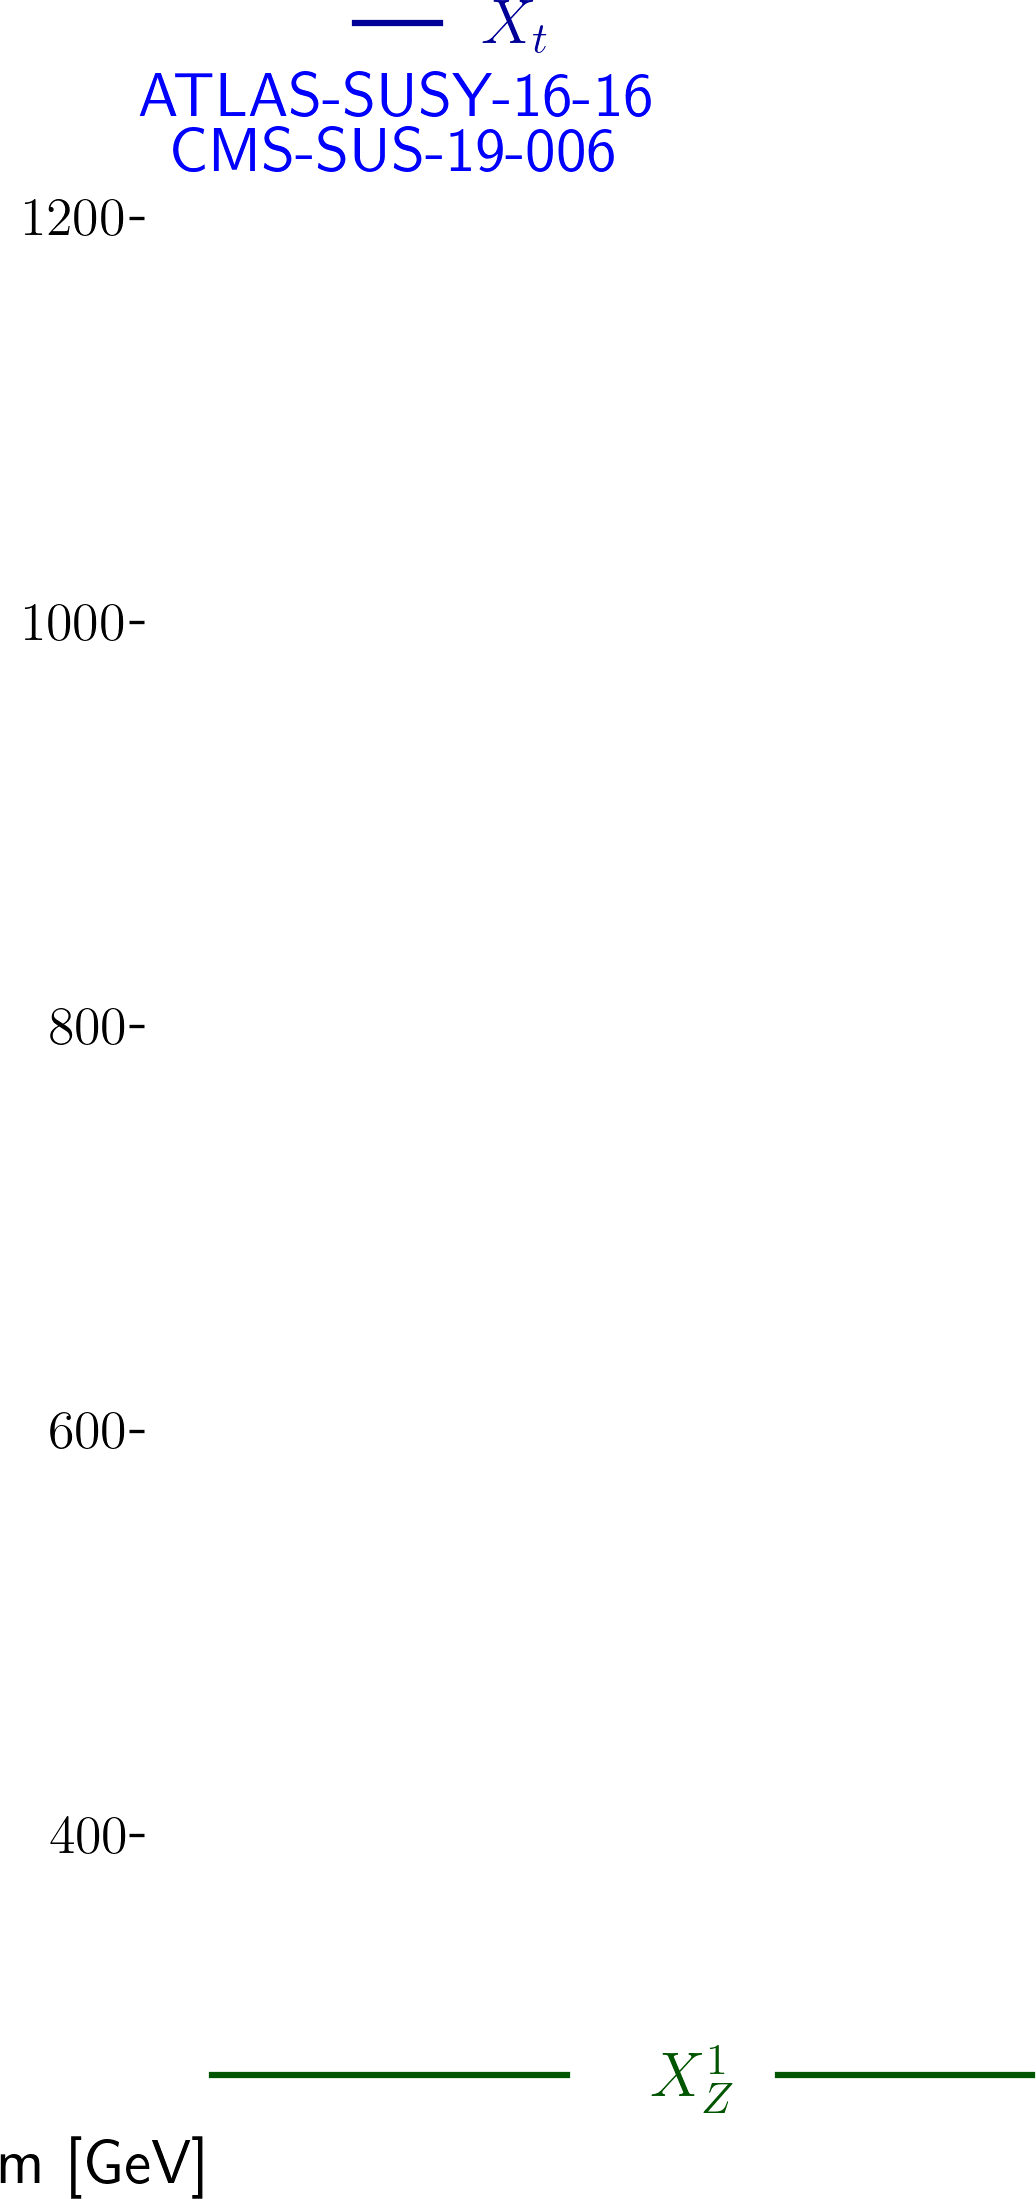
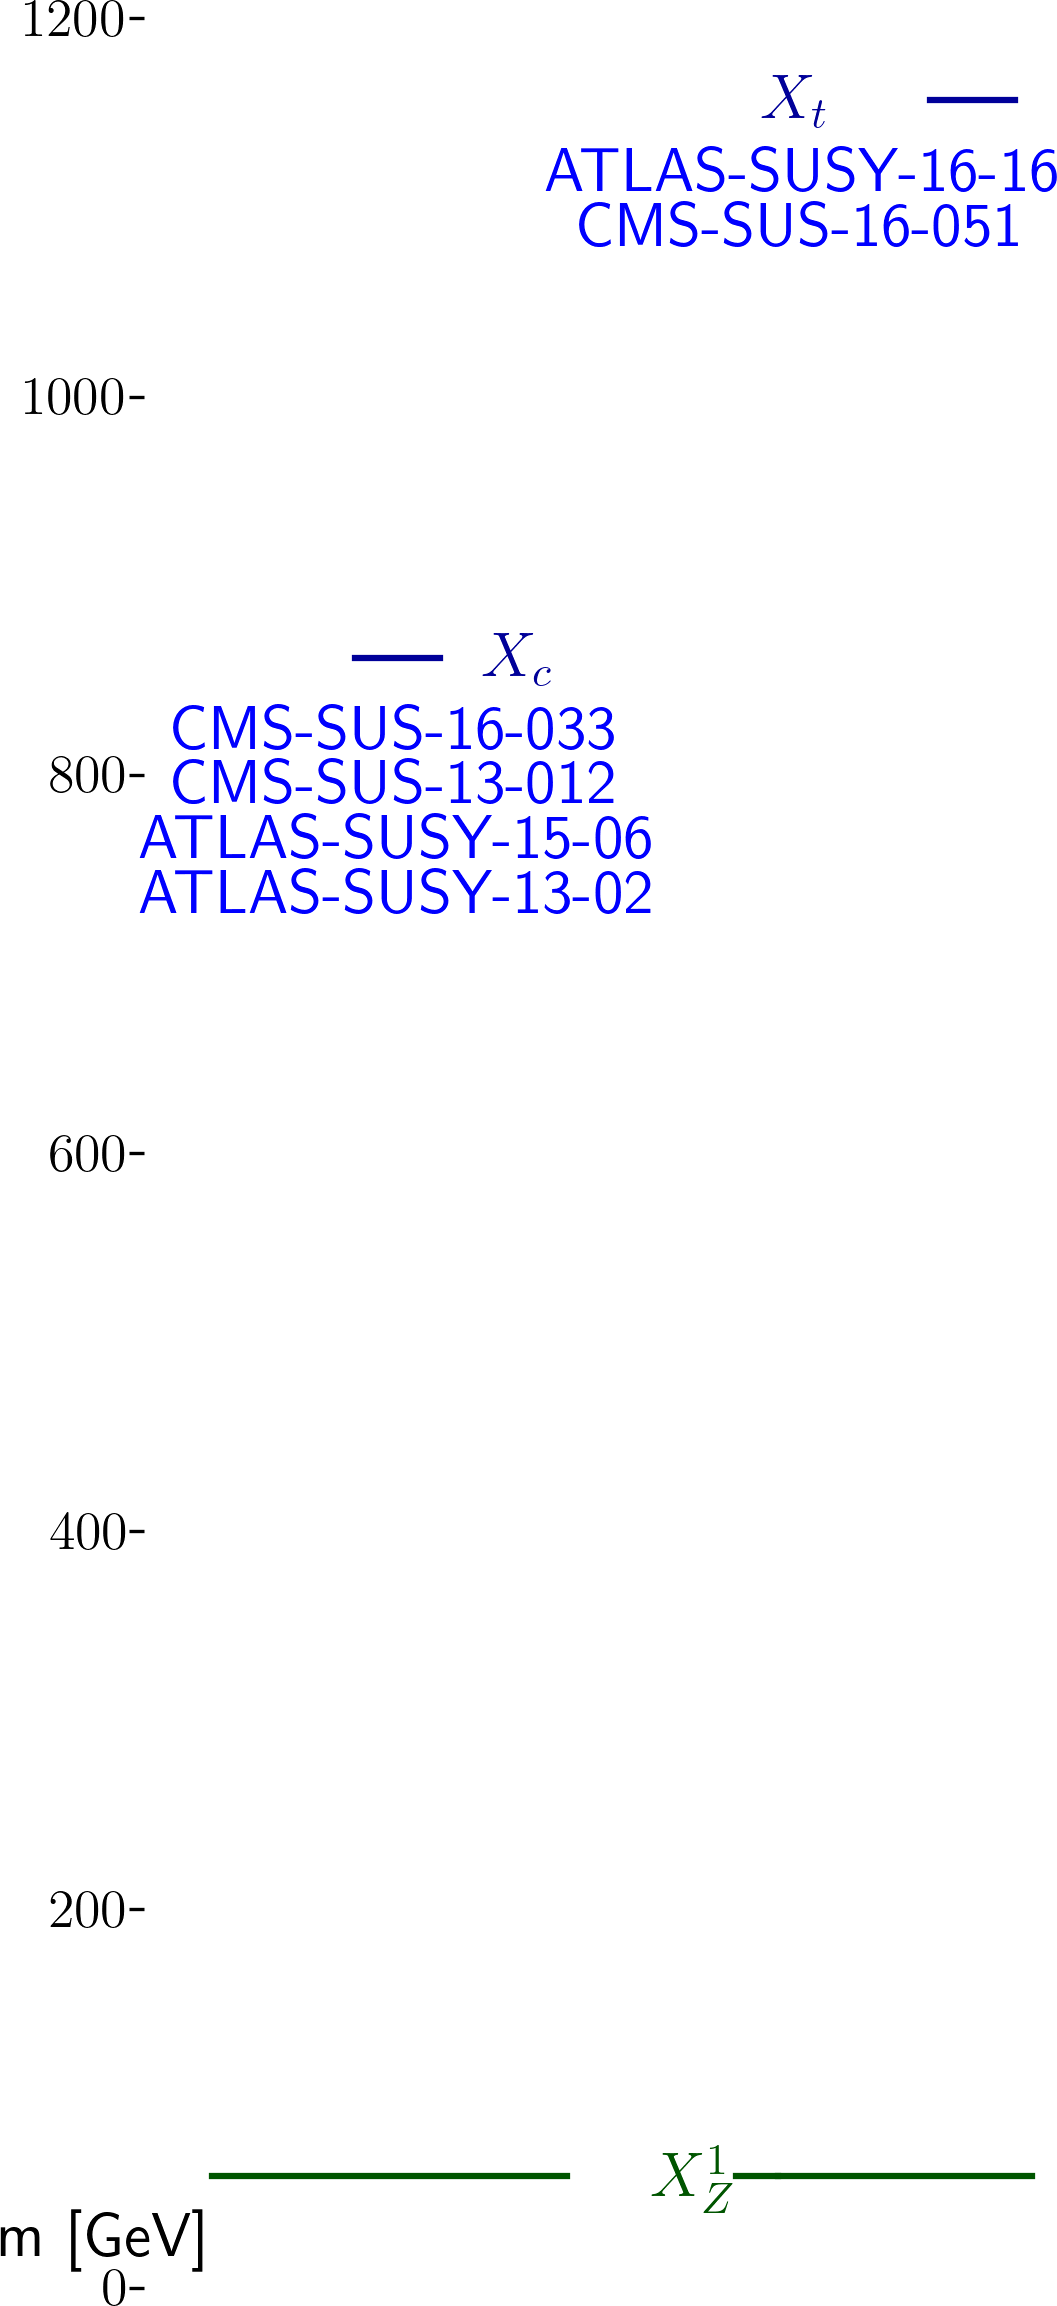
automated update by plotHiscore.py to /scratch-cbe/users/wolfgan.waltenberger/git/smodels.github.io/protomodels

diff --git a/protomodels/2020_PioneerStudy/closure_sampled8/index.html b/protomodels/2020_PioneerStudy/closure_sampled8/index.html
@@ -1,27 +1,31 @@
 <html>
 <body>
 <center>
-<table><td><h1>Current best protomodel: <i>K</i>=4.75</h1><td><img height=60px src=https://smodels.github.io/pics/banner.png></table>
+<table><td><h1>Current best protomodel: <i>K</i>=6.87</h1><td><img height=60px src=https://smodels.github.io/pics/banner.png></table>
 </center>
-<b><a href=./hiscore.slha>ProtoModel</a> <a href=./pmodel.py>(dict)</a> produced with <a href=https://smodels.github.io/docs/Validation124scaled8>database v1.2.4scaled8</a>, combination strategy <a href=./matrix_aggressive.png>aggressive</a> in walker 45 step 466.</b> <i>K</i> plots for: <a href=./M1000022.png?15051277>X<sub>Z</sub><sup>1</sup></a>, <a href=./M1000006.png?15051277>X<sub>t</sub></a>. HPD plots for: <a href=./llhd1000006.png?15051277>X<sub>t</sub></a>. SSM plots for: <a href=./ssm_-1000006_1000006.png?15051277>(x&#772;<sub>t</sub>,X<sub>t</sub>)</a><br>
+<b><a href=./hiscore.slha>ProtoModel</a> <a href=./pmodel.py>(dict)</a> produced with <a href=https://smodels.github.io/docs/Validation124scaled8>database v1.2.4scaled8</a>, combination strategy <a href=./matrix_aggressive.png>aggressive</a> in walker 25 step 921.</b> <i>K</i> plots for: <a href=./M1000022.png?15312362>X<sub>Z</sub><sup>1</sup></a>, <a href=./M1000006.png?15312362>X<sub>t</sub></a>, <a href=./M1000004.png?15312362>X<sub>c</sub></a>. HPD plots for: <a href=./llhd1000006.png?15312362>X<sub>t</sub></a>, <a href=./llhd1000004.png?15312362>X<sub>c</sub></a>. SSM plots for: <a href=./ssm_-1000006_1000006.png?15312362>(x&#772;<sub>t</sub>,X<sub>t</sub>)</a><br>
 <table width=80%>
 <tr><td>
-<br><b>5 predictions available. Highest r values are:</b><br><ul>
-<li><a href=http://cms-results.web.cern.ch/cms-results/public-results/publications/SUS-16-049/index.html>CMS-SUS-16-049</a>:T2tt r=1.04, r<sub>exp</sub>=N/A<br>
-<li><a href=https://atlas.web.cern.ch/Atlas/GROUPS/PHYSICS/PAPERS/SUSY-2016-15/>ATLAS-SUSY-2016-15</a>:T2tt r=0.54, r<sub>exp</sub>=N/A<br>
-<li><a href=http://cms-results.web.cern.ch/cms-results/public-results/publications/SUS-19-006/index.html>CMS-SUS-19-006</a>:T2tt r=0.47, r<sub>exp</sub>=N/A<br>
-<li><a href=https://atlas.web.cern.ch/Atlas/GROUPS/PHYSICS/PAPERS/SUSY-2016-16/>ATLAS-SUSY-2016-16</a>:T2tt r=0.42, r<sub>exp</sub>=N/A<br>
-<li><a href=http://cms-results.web.cern.ch/cms-results/public-results/publications/SUS-16-033/index.html>CMS-SUS-16-033</a>:T2tt r=0.28, r<sub>exp</sub>=N/A<br>
+<br><b>25 predictions available. Highest r values are:</b><br><ul>
+<li><a href=https://atlas.web.cern.ch/Atlas/GROUPS/PHYSICS/PAPERS/SUSY-2016-26/>ATLAS-SUSY-2016-26</a>:T2cc r=0.96, r<sub>exp</sub>=N/A<br>
+<li><a href=https://atlas.web.cern.ch/Atlas/GROUPS/PHYSICS/PAPERS/SUSY-2016-07/>ATLAS-SUSY-2016-07</a>:T2 r=0.77, r<sub>exp</sub>=N/A<br>
+<li><a href=http://cms-results.web.cern.ch/cms-results/public-results/publications/SUS-19-006/index.html>CMS-SUS-19-006</a>:T2 r=0.57, r<sub>exp</sub>=N/A<br>
+<li><a href=http://cms-results.web.cern.ch/cms-results/public-results/publications/SUS-19-006/index.html>CMS-SUS-19-006</a>:T2tt r=0.51, r<sub>exp</sub>=N/A<br>
+<li><a href=http://cms-results.web.cern.ch/cms-results/public-results/publications/SUS-16-036/index.html>CMS-SUS-16-036</a>:T2 r=0.51, r<sub>exp</sub>=N/A<br>
 </ul>
 <td><br><b>K values without analyses: (contribution)</b><br>
 <ul>
-<li> <a href=http://cms-results.web.cern.ch/cms-results/public-results/publications/SUS-19-006/index.html>CMS-SUS-19-006</a>: -0.59 (43%)
-<li> <a href=https://atlas.web.cern.ch/Atlas/GROUPS/PHYSICS/PAPERS/SUSY-2016-16/>ATLAS-SUSY-2016-16</a>: -2.25 (57%)
-<td><img width=600px src=./texdoc.png?1608051277>
-<br><font size=-1>Last updated: Tue Dec 15 17:54:37 2020</font>
+<li> <a href=https://atlas.web.cern.ch/Atlas/GROUPS/PHYSICS/PAPERS/SUSY-2016-16/>ATLAS-SUSY-2016-16</a>: 0.89 (13%)
+<li> <a href=https://twiki.cern.ch/twiki/bin/view/CMSPublic/PhysicsResultsSUS13012>CMS-SUS-13-012</a>: -0.64 (17%)
+<li> <a href=http://cms-results.web.cern.ch/cms-results/public-results/publications/SUS-16-033/index.html>CMS-SUS-16-033</a>: -0.64 (17%)
+<li> <a href=http://cms-results.web.cern.ch/cms-results/public-results/publications/SUS-16-051/index.html>CMS-SUS-16-051</a>: -0.64 (17%)
+<li> <a href=https://atlas.web.cern.ch/Atlas/GROUPS/PHYSICS/PAPERS/SUSY-2013-02/>ATLAS-SUSY-2013-02</a>: -0.84 (17%)
+<li> <a href=http://atlas.web.cern.ch/Atlas/GROUPS/PHYSICS/PAPERS/SUSY-2015-06/>ATLAS-SUSY-2015-06</a>: -1.51 (19%)
+<td><img width=600px src=./texdoc.png?1608312362>
+<br><font size=-1>Last updated: Fri Dec 18 18:26:02 2020</font>
 </table><table style="width:80%">
-<td width=45%><img height=580px src=./ruler.png?1608051277><td width=55%><img height=380px src=./decays.png?1608051277>
-<font size=-3><iframe type="text/html" height="220px" width="100%s" frameborder="0" src="./rawnumbers.html?1608051277"></iframe></font>
+<td width=45%><img height=580px src=./ruler.png?1608312362><td width=55%><img height=380px src=./decays.png?1608312362>
+<font size=-3><iframe type="text/html" height="220px" width="100%s" frameborder="0" src="./rawnumbers.html?1608312362"></iframe></font>
 </table>
 </body>
 </html>

diff --git a/protomodels/2020_PioneerStudy/closure_sampled8/rawnumbers.html b/protomodels/2020_PioneerStudy/closure_sampled8/rawnumbers.html
@@ -1,6 +1,10 @@
 <table>
 <tr><th>Analysis Name</th><th>Type</th><th>Dataset</th><th>Topos</th><th>Observed</th><th>Expected</th><th>Approx &sigma;</th><th>Particles</th><th>Signal</th>
 </tr>
+<tr><td><a href=https://atlas.web.cern.ch/Atlas/GROUPS/PHYSICS/PAPERS/SUSY-2013-02/>ATLAS-SUSY-2013-02</a></td><td>em</td> <td>SR6jtp</td><td>T2</td><td>8</td><td>4.9 +/- 1.6</td><td style="text-align:right">1.1 &sigma;</td><td style="text-align:right">X<sub>c</sub></td><td style="text-align:right">0</td></tr>
+<tr><td><a href=http://atlas.web.cern.ch/Atlas/GROUPS/PHYSICS/PAPERS/SUSY-2015-06/>ATLAS-SUSY-2015-06</a></td><td>em</td> <td>SR4jt</td><td>T2</td><td>9</td><td>4.1 +/- 1.1</td><td style="text-align:right">2.1 &sigma;</td><td style="text-align:right">X<sub>c</sub></td><td style="text-align:right">0</td></tr>
 <tr><td><a href=https://atlas.web.cern.ch/Atlas/GROUPS/PHYSICS/PAPERS/SUSY-2016-16/>ATLAS-SUSY-2016-16</a></td><td>em</td> <td>tN_high</td><td>T2tt</td><td>7</td><td>3.8 +/- 1</td><td style="text-align:right">1.5 &sigma;</td><td style="text-align:right">X<sub>t</sub></td><td style="text-align:right">1</td></tr>
-<tr><td><a href=http://cms-results.web.cern.ch/cms-results/public-results/publications/SUS-19-006/index.html>CMS-SUS-19-006</a></td><td>ul</td> <td>-</td><td>T2tt</td><td> 4.4 fb </td><td> 1.8 fb</td><td style="text-align:right">2.9 &sigma;</td><td style="text-align:right">X<sub>t</sub></td><td style="text-align:right">2.62 fb</td></tr>
+<tr><td><a href=https://twiki.cern.ch/twiki/bin/view/CMSPublic/PhysicsResultsSUS13012>CMS-SUS-13-012</a></td><td>ul</td> <td>-</td><td>T2</td><td> 11.9 fb </td><td> 9.3 fb</td><td style="text-align:right">0.6 &sigma;</td><td style="text-align:right">X<sub>c</sub></td><td style="text-align:right">2.66 fb</td></tr>
+<tr><td><a href=http://cms-results.web.cern.ch/cms-results/public-results/publications/SUS-16-033/index.html>CMS-SUS-16-033</a></td><td>ul</td> <td>-</td><td>T2</td><td> 38.7 fb </td><td> 14.7 fb</td><td style="text-align:right">3.2 &sigma;</td><td style="text-align:right">X<sub>c</sub></td><td style="text-align:right">23.95 fb</td></tr>
+<tr><td><a href=http://cms-results.web.cern.ch/cms-results/public-results/publications/SUS-16-051/index.html>CMS-SUS-16-051</a></td><td>ul</td> <td>-</td><td>T2tt</td><td> 7.1 fb </td><td> 4.5 fb</td><td style="text-align:right">1.1 &sigma;</td><td style="text-align:right">X<sub>t</sub></td><td style="text-align:right">2.62 fb</td></tr>
 </table>

diff --git a/protomodels/2020_PioneerStudy/closure_sampled8/pmodel.py b/protomodels/2020_PioneerStudy/closure_sampled8/pmodel.py
@@ -1,1 +1,1 @@
-{'masses': {1000022: 271.196, 1000006: 1286.243}, 'ssmultipliers': {(1000022, 1000022): 29.099, (1000006, 1000006): 2.141, (-1000006, 1000006): 2.141, (-1000006, -1000006): 2.141, (1000006, 1000022): 2.141, (-1000006, 1000022): 2.141}, 'decays': {1000022: {}, 1000006: {(1000022, 6): 1.0}}, 'timestamp': 'Tue Dec 15 17:54:31 2020', 'Z': 2.646, 'K': 4.753, 'walkerid': 45, 'step': 466, 'codever': '1.0', 'dbver': '1.2.4scaled8'}
+{'masses': {1000022: 48.809, 1000006: 1146.766, 1000004: 851.947}, 'ssmultipliers': {(1000022, 1000022): 0.0, (1000006, 1000006): 1.032, (-1000006, 1000006): 1.032, (-1000006, -1000006): 1.032, (1000006, 1000022): 1.032, (-1000006, 1000022): 1.032, (1000004, 1000004): 1.031, (-1000004, 1000004): 1.031, (-1000004, -1000004): 1.031, (1000004, 1000022): 1.031, (-1000004, 1000022): 1.031, (1000004, 1000006): 1.031, (-1000004, 1000006): 1.031, (-1000006, 1000004): 1.031, (-1000006, -1000004): 1.031}, 'decays': {1000022: {}, 1000006: {(1000022, 6): 1.0}, 1000004: {(1000022, 4): 1.0}}, 'timestamp': 'Fri Dec 18 18:25:53 2020', 'Z': 3.193, 'K': 6.87, 'walkerid': 25, 'step': 921, 'codever': '1.0', 'dbver': '1.2.4scaled8'}
